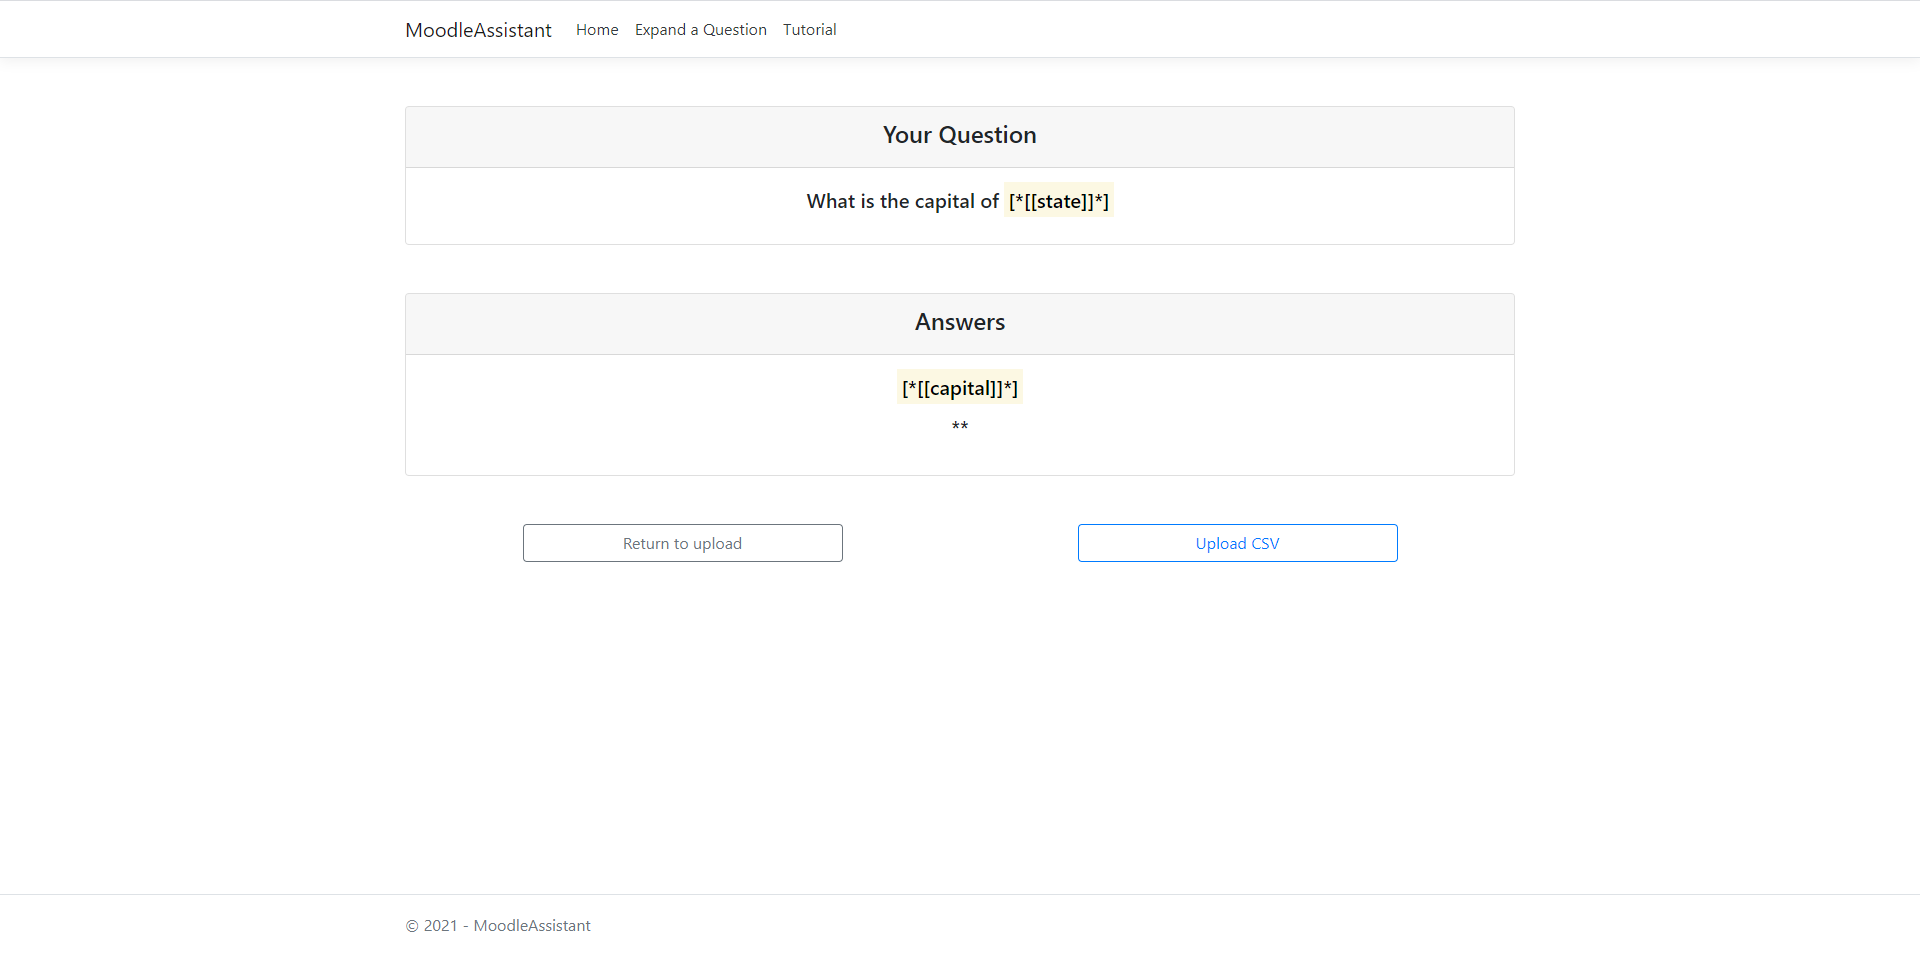
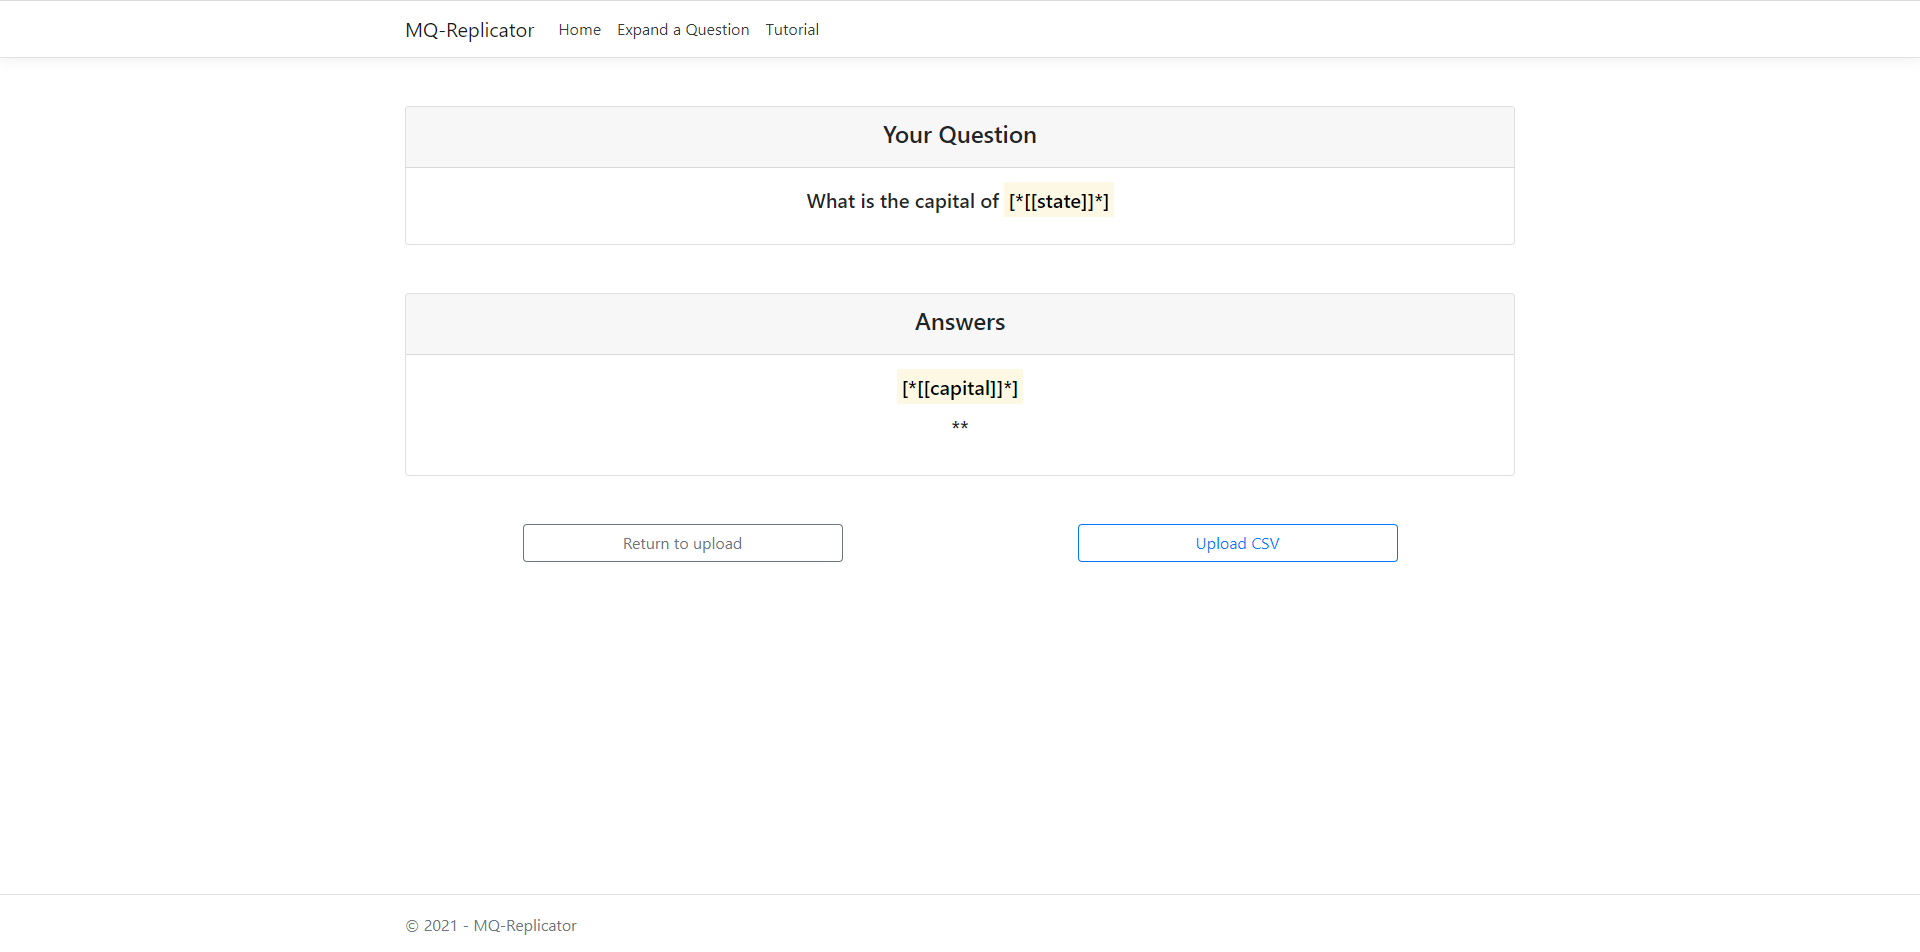
Change all occurrance of Moodle Assistance in visualization to MQ-Replicator

diff --git a/tests/MoodleAssistant.UnitTests/TestsBase.cs b/tests/MoodleAssistant.UnitTests/TestsBase.cs
@@ -9,10 +9,10 @@ namespace MoodleAssistant.UnitTests
         protected readonly IWebDriver WebDriver;
         protected const string SiteUrl = "https://localhost:44379/";
         protected const string AssetsDir = @"C:\Users\andre\source\repos\MoodleAssistant\tests\assets\xmlFiles\";
-        protected const string RandomQuestionPageTitle = "Upload XML - MoodleAssistant";
-        protected const string SummaryPagePageTitle = "Summary Page - MoodleAssistant";
-        protected const string UploadCsvPageTitle = "Upload CSV - MoodleAssistant";
-        protected const string DownloadPageTitle = "Download - MoodleAssistant";
+        protected const string RandomQuestionPageTitle = "Upload XML - MQ-Replicator";
+        protected const string SummaryPagePageTitle = "Summary Page - MQ-Replicator";
+        protected const string UploadCsvPageTitle = "Upload CSV - MQ-Replicator";
+        protected const string DownloadPageTitle = "Download - MQ-Replicator";
         private const string UploadXmlButtonId = "upload-xml-question";
         private const string UploadCsvButtonId = "upload-csv-answers";
 

diff --git a/tests/MoodleAssistant.IntegrationTests/BasicTests.cs b/tests/MoodleAssistant.IntegrationTests/BasicTests.cs
@@ -10,7 +10,7 @@ namespace MoodleAssistant.IntegrationTests
         protected readonly IWebDriver WebDriver;
         protected const string SiteUrl = "https://localhost:44379/";
         protected const string AssetsDir = @"C:\Users\andre\source\repos\MoodleAssistant\tests\assets\xmlFiles\";
-        protected const string DownloadPageTitle = "Download - MoodleAssistant";
+        protected const string DownloadPageTitle = "Download - MQ-Replicator";
         private const string UploadXmlButtonId = "upload-xml-question";
         private const string UploadCsvButtonId = "upload-csv-answers";
         private const string UploadCsvSummaryButton = "upload-csv";
